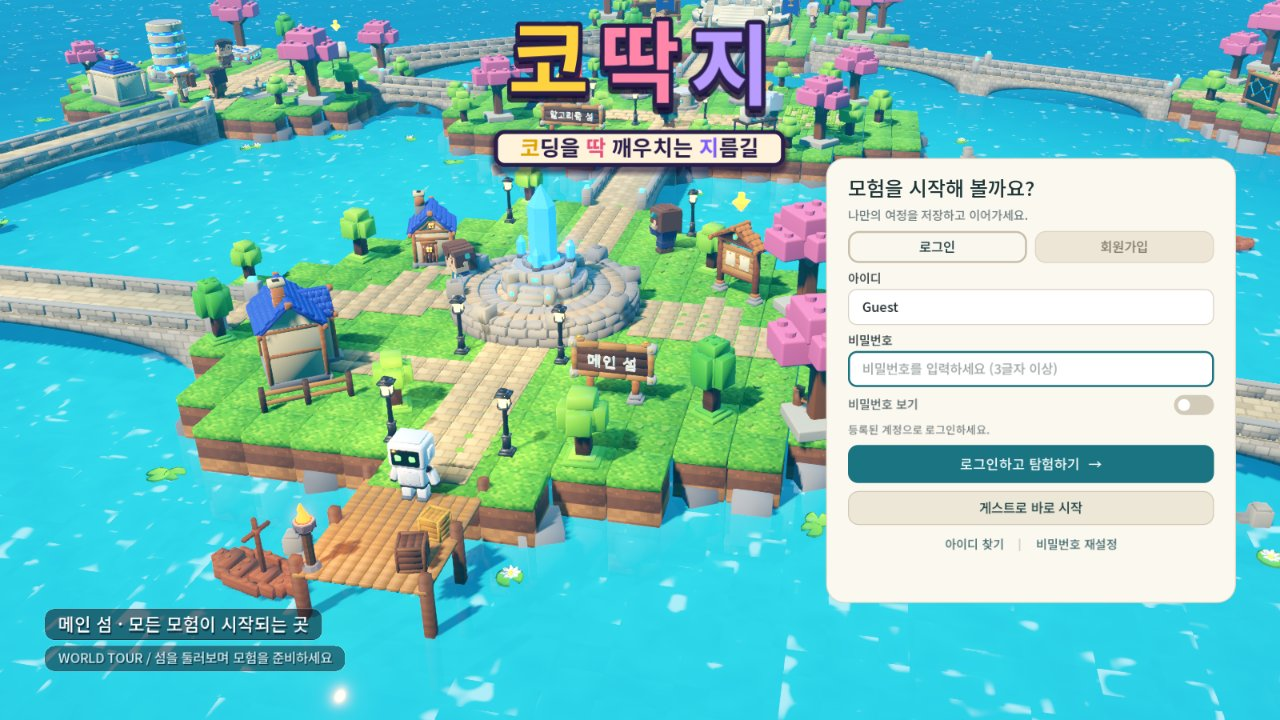
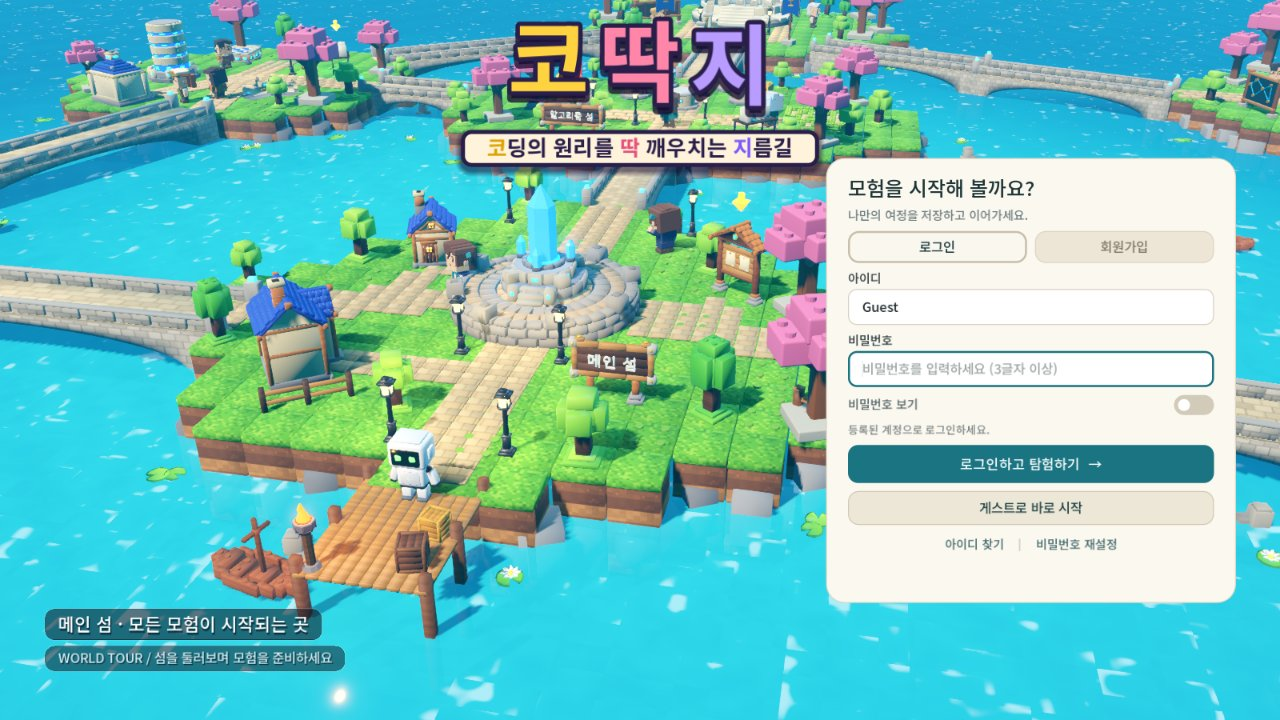
brand: tagline 코딩의 원리를 딱 깨우치는 지름길, README key art
The official meaning of 코딱지 is "코딩의 원리를 딱 깨우치는 지름길".
The game title ribbon, the public portal title and brand, and the
README now use it. The README hero shows the key art with the line
"외우지 말고, 움직여라. 코딩이 딱 이해된다!"; the lobby still and the
gameplay GIF are recaptured with the new ribbon. The unused icon copy
is removed.

Claude-Session: https://claude.ai/code/session_01MiC4TSuZckef5J8uYrxP8N

diff --git a/server/templates/portal/index.html b/server/templates/portal/index.html
@@ -4,7 +4,7 @@
   <meta charset="UTF-8">
   <meta name="viewport" content="width=device-width,initial-scale=1">
   <meta name="description" content="일곱 개의 섬으로 연결된 코딩 탐험. 코딱지의 세계와 소개 영상, 브라우저 인터랙티브 미니게임을 만나보세요.">
-  <title>코딱지 — 코딩을 딱 깨우치는 지름길</title>
+  <title>코딱지 — 코딩의 원리를 딱 깨우치는 지름길</title>
   <link rel="stylesheet" href="/static/portal/style.css">
   <link rel="stylesheet" href="/static/portal/island-games.css">
   <link rel="stylesheet" href="/static/portal/showcase.css">
@@ -19,7 +19,7 @@
         <circle cx="6" cy="34" r="5"/>
         <circle cx="36" cy="34" r="5"/>
       </svg>
-      <span>코딱지<small>코딩을 딱 깨우치는 지름길</small></span>
+      <span>코딱지<small>코딩의 원리를 딱 깨우치는 지름길</small></span>
     </a>
     <nav aria-label="주 메뉴">
       <a href="#world">세계 탐험</a>

diff --git a/README.md b/README.md
@@ -1,12 +1,14 @@
 <div align="center">
 
-<img src="docs/readme/kkodakji-icon.png" width="120" alt="코딱지 아이콘">
+<img src="docs/readme/kkodakji-keyart.jpg" width="900" alt="코딱지 키 아트: 코딩의 원리를 딱 깨우치는 지름길">
 
 # 코딱지
 
-### 코딩을 딱 깨우치는 지름길
+### 코딩의 원리를 딱 깨우치는 지름길
 
-**게임을 하다 보면 자료구조·알고리즘·SQL이 손에 익고, 그 모든 플레이가 실시간 데이터 파이프라인을 타고 학습 진단이 됩니다.**
+**외우지 말고, 움직여라. 코딩이 딱 이해된다!**
+
+게임을 하다 보면 자료구조·알고리즘·SQL이 손에 익고, 그 모든 플레이가 실시간 데이터 파이프라인을 타고 학습 진단이 됩니다.
 
 ![Godot](https://img.shields.io/badge/Godot-4.7.2-478CBF?logo=godotengine&logoColor=white)
 ![Kafka](https://img.shields.io/badge/Apache%20Kafka-3.9.1-231F20?logo=apachekafka&logoColor=white)
